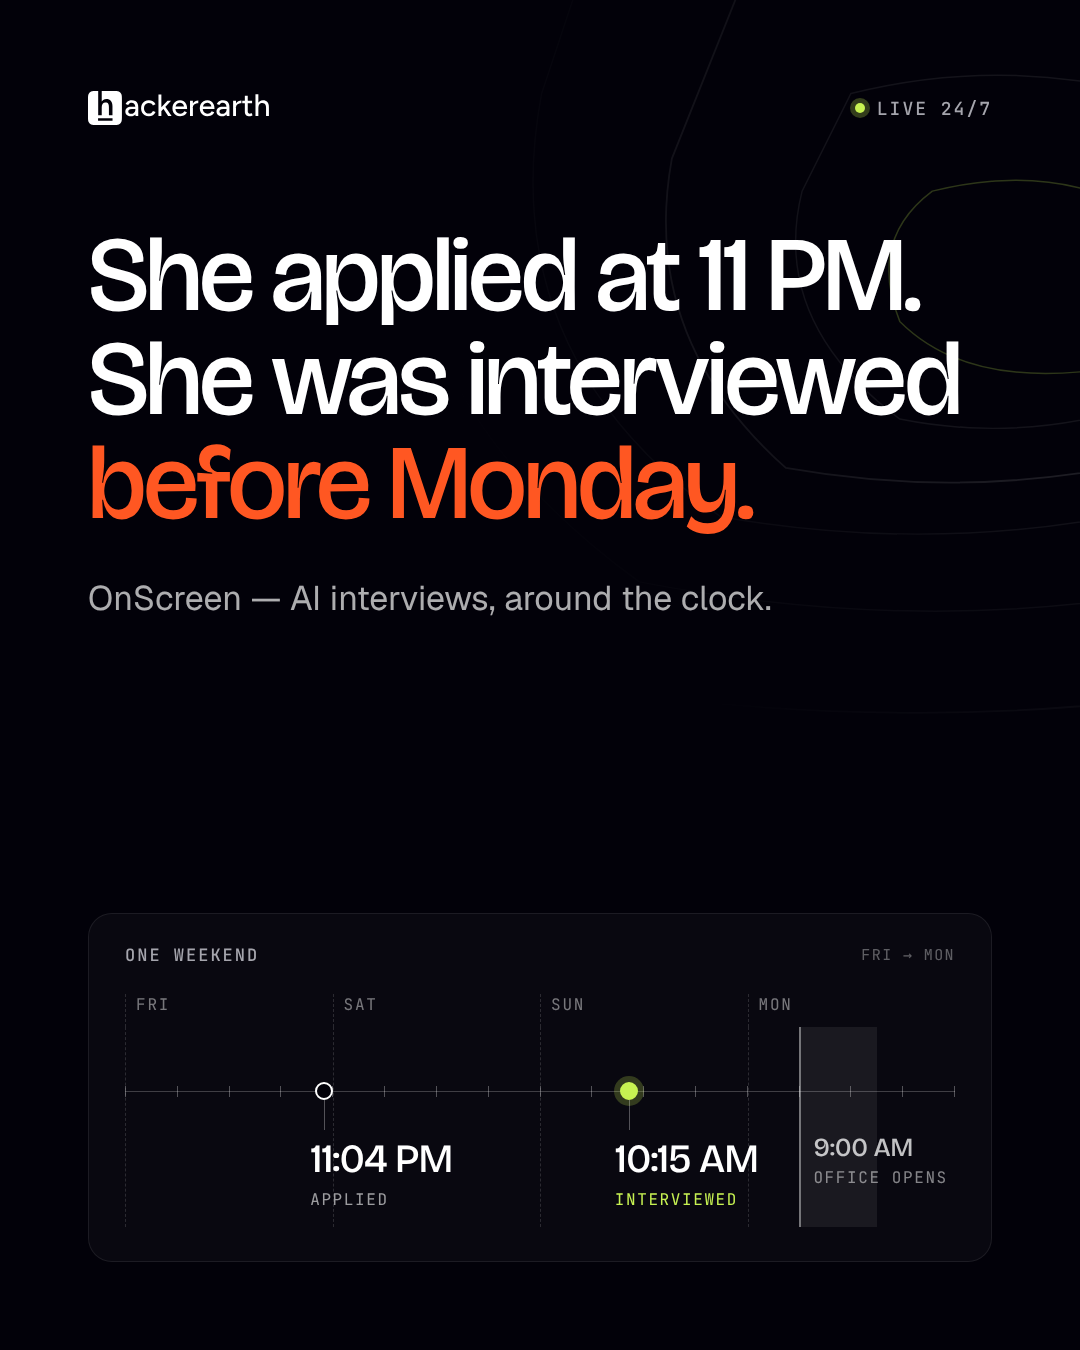
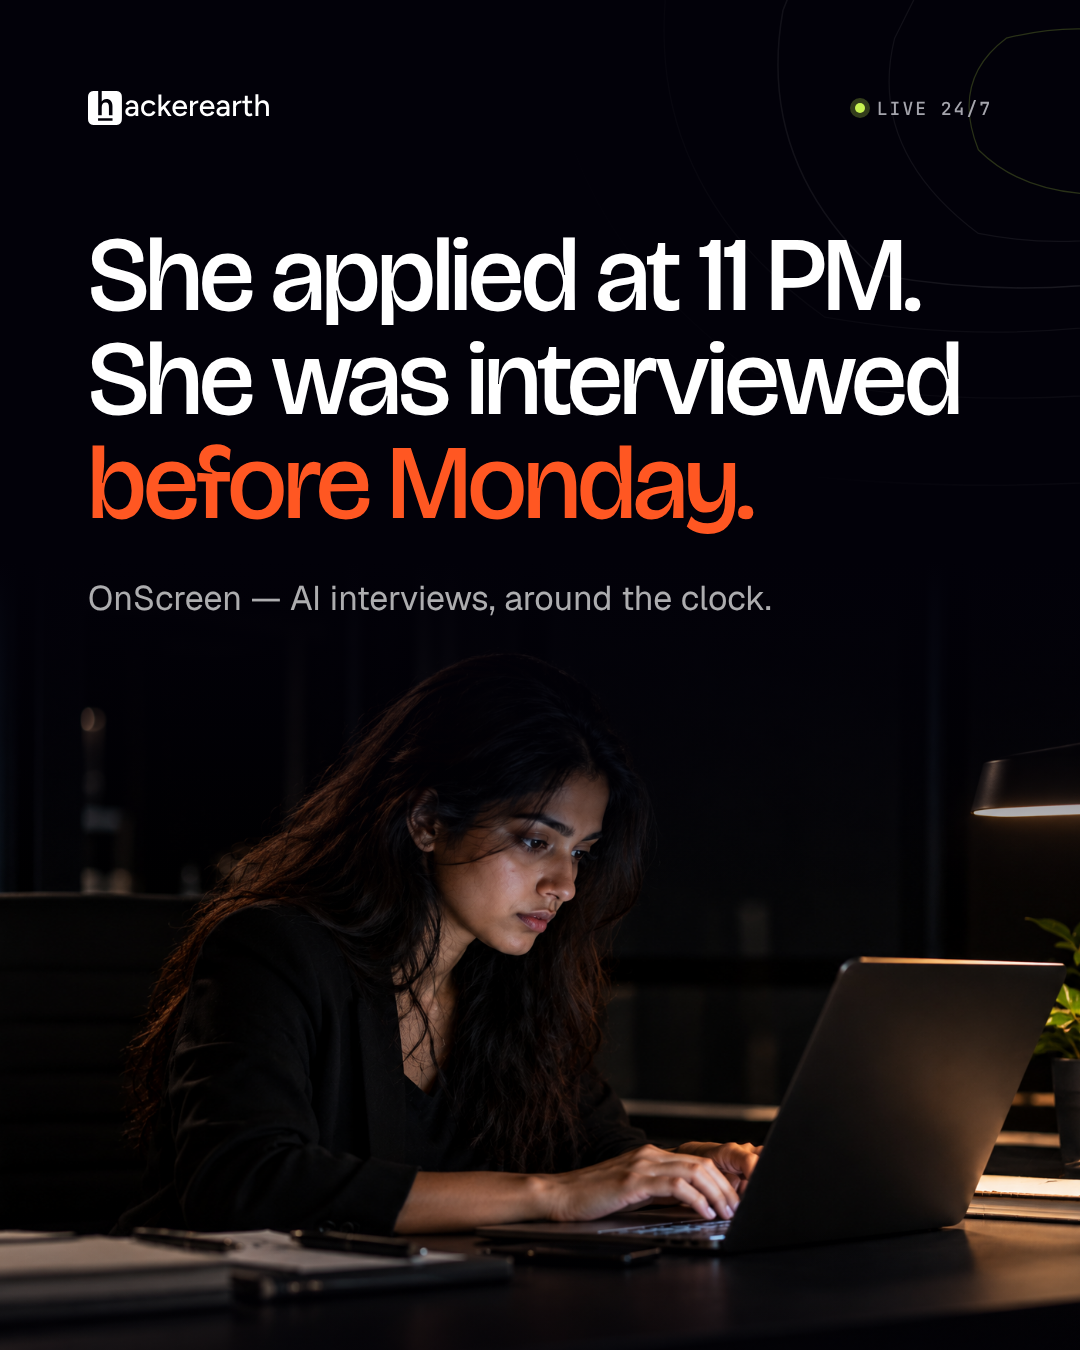
Use Midnight Focus photo as background on 11 PM post
Replace the weekend timeline with the 'Midnight Focus at the Desk' photo,
placed full-bleed in the lower half and faded into brand black behind
the headline. Headline, subline, logo and contours unchanged.

Claude-Session: https://claude.ai/code/session_01KRAoFuKemgBv6XboWw4YBU

diff --git a/post-applied-at-11pm/index.html b/post-applied-at-11pm/index.html
@@ -55,7 +55,7 @@
   .live-dot { width: 10px; height: 10px; border-radius: 50%; background: var(--lime); box-shadow: 0 0 0 5px color-mix(in srgb, var(--lime) 25%, transparent); }
 
   /* Contours — on-dark tokens, masked toward the headline */
-  .topo { position: absolute; z-index: 1; pointer-events: none; width: 1700px; height: 1400px; right: -800px; top: -460px; opacity: 0.4;
+  .topo { position: absolute; z-index: 1; pointer-events: none; width: 1500px; height: 1200px; right: -760px; top: -520px; opacity: 0.36;
     -webkit-mask-image: radial-gradient(ellipse 55% 55% at 55% 50%, #000 30%, transparent 75%);
             mask-image: radial-gradient(ellipse 55% 55% at 55% 50%, #000 30%, transparent 75%); }
   .topo svg { width: 100%; height: 100%; display: block; }
@@ -67,37 +67,12 @@
   .h1 { font-family: var(--display); font-weight: 500; font-variation-settings: 'opsz' 96; font-size: 106px; line-height: 0.98; letter-spacing: -3.2px; }
   .sub { margin-top: 40px; font-family: var(--body); font-size: 34px; line-height: 1.35; color: rgba(255,255,255,0.68); }
 
-  /* ---------- Weekend timeline ---------- */
-  .timeline { margin-top: auto; background: rgba(255,255,255,0.03); border: 1px solid rgba(255,255,255,0.08); border-radius: 24px; padding: 30px 36px 34px; }
-  .tl-head { display: flex; justify-content: space-between; align-items: center; margin-bottom: 28px; }
-  .tl-head .label { font-family: var(--mono); font-size: 17px; font-weight: 500; text-transform: uppercase; letter-spacing: 2px; color: var(--eyebrow-on-dark); }
-  .tl-head .n { font-family: var(--mono); font-size: 15px; letter-spacing: 1.4px; color: rgba(255,255,255,0.35); }
-
-  .days { display: grid; grid-template-columns: repeat(4, 1fr); font-family: var(--mono); font-size: 16px; letter-spacing: 1.8px; text-transform: uppercase; color: rgba(255,255,255,0.45); }
-  .days span { padding-left: 10px; border-left: 1px dashed rgba(255,255,255,0.14); padding-bottom: 12px; }
-
-  .lane { position: relative; height: 200px; }
-  .lane .grid { position: absolute; inset: 0; display: grid; grid-template-columns: repeat(4, 1fr); pointer-events: none; }
-  .lane .grid span { border-left: 1px dashed rgba(255,255,255,0.14); }
-  .office { position: absolute; top: 0; bottom: 0; left: 81.25%; width: 9.375%; background: rgba(255,255,255,0.07); border-left: 2px solid rgba(255,255,255,0.4); }
-  .track { position: absolute; left: 0; right: 0; top: 64px; height: 1px; background: rgba(255,255,255,0.22); }
-  .track .marks { position: absolute; left: 0; right: 0; top: -5px; display: flex; justify-content: space-between; }
-  .track .marks span { width: 1px; height: 11px; background: rgba(255,255,255,0.3); }
-
-  .ev { position: absolute; top: 64px; }
-  .ev .dot { position: absolute; left: -9px; top: -9px; width: 18px; height: 18px; border-radius: 50%; background: var(--bg-dark); border: 2px solid #fff; }
-  .ev .stem { position: absolute; left: 0; top: 9px; width: 1px; height: 30px; background: rgba(255,255,255,0.3); }
-  .ev .tag { position: absolute; top: 48px; left: -14px; white-space: nowrap; }
-  .ev .time { font-family: var(--display); font-weight: 500; font-size: 40px; letter-spacing: -1px; line-height: 1; color: #fff; }
-  .ev .what { margin-top: 10px; font-family: var(--mono); font-size: 16px; text-transform: uppercase; letter-spacing: 1.6px; color: rgba(255,255,255,0.6); }
-  .ev.hit .dot { background: var(--lime); border-color: var(--lime); box-shadow: 0 0 0 6px color-mix(in srgb, var(--lime) 22%, transparent); }
-  .ev.hit .what { color: var(--lime); }
-  .ev.open { top: 0; }
-  .ev.open .tag { top: 108px; left: 14px; }
-  .ev.open .time { font-size: 26px; letter-spacing: -0.4px; color: rgba(255,255,255,0.75); }
-  .ev.open .what { margin-top: 6px; color: rgba(255,255,255,0.5); }
-  .ev.open .dot { display: none; }
-  .ev.open .stem { display: none; }
+  /* ---------- Background photo ---------- */
+  /* Landscape photo sits full-bleed in the lower part and fades up into brand black behind the headline */
+  .photo { position: absolute; z-index: 1; left: -40px; right: -40px; bottom: 0; height: 790px;
+    background: url('../Midnight%20Focus%20at%20the%20Desk.png') 42% 40% / cover no-repeat; }
+  .photo::after { content: ''; position: absolute; inset: 0;
+    background: linear-gradient(to bottom, var(--bg-dark) 0%, color-mix(in srgb, var(--bg-dark) 55%, transparent) 22%, transparent 45%, transparent 82%, color-mix(in srgb, var(--bg-dark) 50%, transparent) 100%); }
 </style>
 </head>
 <body>
@@ -116,6 +91,8 @@
       </svg>
     </div>
 
+    <div class="photo" role="img" aria-label="A woman working on her laptop late at night at a dimly lit desk"></div>
+
     <header class="chrome-top">
       <img class="logo" src="../Logo-Light.svg" alt="HackerEarth">
       <span class="topic"><span class="live-dot" aria-hidden="true"></span>Live 24/7</span>
@@ -124,23 +101,6 @@
     <div class="body">
       <h1 class="h1">She applied at 11 PM. She was interviewed <em>before Monday.</em></h1>
       <p class="sub">OnScreen — AI interviews, around the clock.</p>
-
-      <div class="timeline" aria-hidden="true">
-        <div class="tl-head"><span class="label">One weekend</span><span class="n">FRI → MON</span></div>
-        <div class="days"><span>Fri</span><span>Sat</span><span>Sun</span><span>Mon</span></div>
-        <div class="lane">
-          <div class="grid"><span></span><span></span><span></span><span></span></div>
-          <div class="office"></div>
-          <div class="track"><div class="marks">
-            <span></span><span></span><span></span><span></span><span></span><span></span><span></span><span></span><span></span>
-            <span></span><span></span><span></span><span></span><span></span><span></span><span></span><span></span>
-          </div></div>
-          <!-- Positions: hours since Fri 00:00 / 96h -->
-          <div class="ev" style="left: 24.0%"><span class="dot"></span><span class="stem"></span><div class="tag"><div class="time">11:04 PM</div><div class="what">Applied</div></div></div>
-          <div class="ev hit" style="left: 60.7%"><span class="dot"></span><span class="stem"></span><div class="tag"><div class="time">10:15 AM</div><div class="what">Interviewed</div></div></div>
-          <div class="ev open" style="left: 81.25%"><div class="tag"><div class="time">9:00 AM</div><div class="what">Office opens</div></div></div>
-        </div>
-      </div>
     </div>
   </section></div>
 </div>
